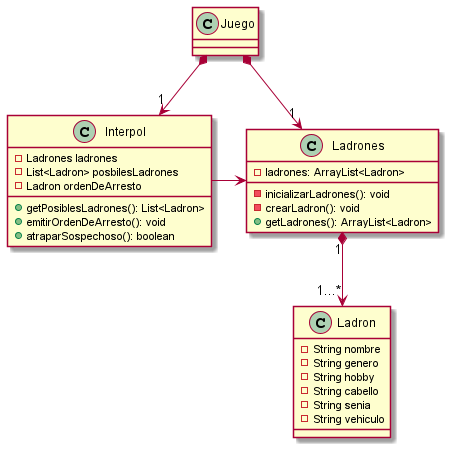
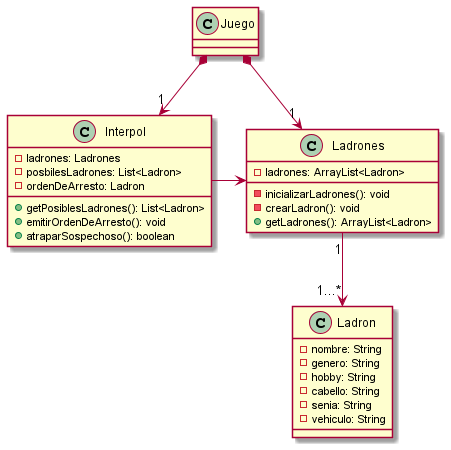
Se agregan diagramas de clase. Se modifica constructor de Tiempo. Se ajustan detalles en Ubicaciones

Changed region(s): [[0.6208, 0.6844, 0.9002, 0.9956], [0.0621, 0.3422, 0.4035, 0.4356], [0.745, 0.4978, 0.7761, 0.56]]

diff --git a/src/main/test/pruebasUnitarias/UbicacionTest.java b/src/main/test/pruebasUnitarias/UbicacionTest.java
@@ -2,6 +2,9 @@ package pruebasUnitarias;
 
 import carmenSandiego.modelo.*;
 import org.junit.jupiter.api.Test;
+
+import java.util.ArrayList;
+
 import static org.junit.jupiter.api.Assertions.*;
 import static org.mockito.Mockito.mock;
 import static org.mockito.Mockito.when;
@@ -10,14 +13,17 @@ public class UbicacionTest {
     Ubicacion ubicacionSalida = new Ubicacion(45.573279804398034, -73.49124739806629);
     Ubicacion ubicacionDestino = new Ubicacion(23.564780856080713, -101.16072897108585);
 
+    Ciudades ciudades = new Ciudades();
+
     //las primera latitud y longitud son de Montreal y las otras son de Mexico.
-    //las horas de viaje se redondean para abajo
+    //las horas de viaje se redondean para abajo/arriba dependiendo si el decimal es mayor/menor a la mitad
+    //las distancias se redondean para abajo
 
     @Test
     public void obtengoLaDistanciaEntreLasCoordenadas(){
         double distanciaObtenida = ubicacionSalida.obtenerDistancia(ubicacionDestino);
 
-        assertEquals(3466,distanciaObtenida,100);
+        assertEquals(3489,distanciaObtenida);
     }
 
     @Test
@@ -29,12 +35,38 @@ public class UbicacionTest {
 
         when(novatoMock.getVelocidad()).thenReturn(900);
         when(detectiveMock.getVelocidad()).thenReturn(1100);
-        when(investigadorMock.getVelocidad()).thenReturn(1200);
+        when(investigadorMock.getVelocidad()).thenReturn(1300);
         when(sargentoMock.getVelocidad()).thenReturn(1500);
 
-        assertEquals(3, ubicacionSalida.obtenerHorasDeViaje(ubicacionDestino, novatoMock.getVelocidad()));
+        assertEquals(4, ubicacionSalida.obtenerHorasDeViaje(ubicacionDestino, novatoMock.getVelocidad()));
         assertEquals(3, ubicacionSalida.obtenerHorasDeViaje(ubicacionDestino, detectiveMock.getVelocidad()));
-        assertEquals(2, ubicacionSalida.obtenerHorasDeViaje(ubicacionDestino, investigadorMock.getVelocidad()));
+        assertEquals(3, ubicacionSalida.obtenerHorasDeViaje(ubicacionDestino, investigadorMock.getVelocidad()));
         assertEquals(2, ubicacionSalida.obtenerHorasDeViaje(ubicacionDestino, sargentoMock.getVelocidad()));
+    }
+
+    @Test
+    public void seObtieneDistanciaEntreDistintasCiudades(){
+        ArrayList<Ciudad> listaCiudades = ciudades.getCiudades();
+        Ciudad ciudadBuenosAires = listaCiudades.get(0);
+        Ciudad ciudadRoma = listaCiudades.get(12);
+        Ciudad ciudadOslo = listaCiudades.get(5);
+
+        assertEquals(12244, ciudadBuenosAires.getUbicacion().obtenerDistancia(ciudadOslo.getUbicacion()));
+        assertEquals(11147, ciudadBuenosAires.getUbicacion().obtenerDistancia(ciudadRoma.getUbicacion()));
+        assertEquals(2007, ciudadOslo.getUbicacion().obtenerDistancia(ciudadRoma.getUbicacion()));
+        assertEquals(0, ciudadOslo.getUbicacion().obtenerDistancia(ciudadOslo.getUbicacion()));
+    }
+
+    @Test
+    public void seObtienenTiemposDeViajeEntreDistintasCiudadesParaJugadorNovato(){
+        ArrayList<Ciudad> listaCiudades = ciudades.getCiudades();
+        Ciudad ciudadBuenosAires = listaCiudades.get(0);
+        Ciudad ciudadRoma = listaCiudades.get(12);
+        Ciudad ciudadOslo = listaCiudades.get(5);
+
+        assertEquals(14, ciudadBuenosAires.getUbicacion().obtenerHorasDeViaje(ciudadOslo.getUbicacion(), 900));
+        assertEquals(12, ciudadBuenosAires.getUbicacion().obtenerHorasDeViaje(ciudadRoma.getUbicacion(), 900));
+        assertEquals(2, ciudadRoma.getUbicacion().obtenerHorasDeViaje(ciudadOslo.getUbicacion(), 900));
+        assertEquals(0, ciudadRoma.getUbicacion().obtenerHorasDeViaje(ciudadRoma.getUbicacion(), 900));
     }
 }

diff --git a/src/main/java/carmenSandiego/modelo/Ciudad.java b/src/main/java/carmenSandiego/modelo/Ciudad.java
@@ -86,24 +86,9 @@ public class Ciudad {
             edificio.setPistas(ciudadSiguiente);
         }
     }
-/*
-    public void viajarDesde(int velocidad, Ciudad ciudadSiguiente) {
-        ciudadSiguiente.viajarHasta(velocidad, latitud, longitud);
-    }
-
-    private void viajarHasta(int velocidad, Double latitud, Double longitud) {
-        Reloj reloj = Reloj.getInstance();
-        CalculadorTiempoViaje calculadorTiempoViaje = new CalculadorTiempoViaje(velocidad, latitud, longitud, this.latitud, this.longitud);
-        int horasDeViaje = calculadorTiempoViaje.obtenerHorasDeViaje();
-        reloj.agregarHoras(horasDeViaje);
-    }
-
- */
 
     public int viajarHasta(int velocidad, Ciudad ciudadDestino){
-        //CalculadorTiempoViaje calculadorTiempoViaje = new CalculadorTiempoViaje(velocidad, ciudadDestino.getUbicacion(), this.getUbicacion());
         return this.getUbicacion().obtenerHorasDeViaje(ciudadDestino.getUbicacion(), velocidad);
-        //return calculadorTiempoViaje.obtenerHorasDeViaje();
     }
 
     public void addEdificio(Edificio unEdificio){

diff --git a/src/main/test/entregas/CasosUsoEntrega2Test.java b/src/main/test/entregas/CasosUsoEntrega2Test.java
@@ -26,7 +26,7 @@ public class CasosUsoEntrega2Test {
     Ciudades ciudades = new Ciudades();
 
     //Setup jugador / tiempo
-    Tiempo reloj = new Tiempo();
+    Tiempo reloj = new Tiempo(7, 4, 0, 2021);
     Jugador jugador = new Jugador("Max", reloj);
     ObjetoRobado objetoRobado = new ObjetoRobado("Incan Gold Mask", ciudadMexico, "Importante");
 
@@ -62,7 +62,7 @@ public class CasosUsoEntrega2Test {
         jugador.viajar(ciudadMexico);
 
         assertEquals("Investigador", jugador.getRango().getNombreRango());
-        assertEquals(9, reloj.getHoraActual());
+        assertEquals(10, reloj.getHoraActual());
     }
 
     //caso uso 3: Cargar en la computadora los datos recopilados y buscar sospechosos.

diff --git a/src/main/java/carmenSandiego/modelo/Ubicacion.java b/src/main/java/carmenSandiego/modelo/Ubicacion.java
@@ -37,10 +37,10 @@ public class Ubicacion {
         double va2 = 2 * Math.atan2(Math.sqrt(va1), Math.sqrt(1 - va1));
         double distancia = radioTierra * va2;
 
-        return distancia;
+        return Math.floor(distancia);
     }
 
     public int obtenerHorasDeViaje(Ubicacion ubicacionDestino, int velocidad) {
-        return (int)(obtenerDistancia(ubicacionDestino) / velocidad);
+        return (int) Math.round((obtenerDistancia(ubicacionDestino) / velocidad));
     }
 }

diff --git a/src/main/java/carmenSandiego/modelo/Jugador.java b/src/main/java/carmenSandiego/modelo/Jugador.java
@@ -78,7 +78,6 @@ public class Jugador {
     }
 
     public void viajar(Ciudad ciudadSiguiente){
-        //ciudadActual.viajarDesde(rango.getVelocidad(), ciudadSiguiente); //habría que cambiarle el nombre
         int horasViaje = this.getCiudadActual().viajarHasta(rango.getVelocidad(), ciudadSiguiente);
         this.getReloj().addHoras(horasViaje);
         this.setCiudadActual(ciudadSiguiente);

diff --git a/src/main/java/carmenSandiego/modelo/EdificioAeropuerto.java b/src/main/java/carmenSandiego/modelo/EdificioAeropuerto.java
@@ -4,9 +4,9 @@ public class EdificioAeropuerto extends Edificio {
 
     public EdificioAeropuerto() {}
 
-    public void mostrarNombreDelEdificio() {
-        System.out.println("Aeropuerto");
-    }
+/*    public void mostrarNombreDelEdificio() {System.out.println("Aeropuerto");}
+
+ */
 
     public void setPistas(Ciudad ciudadSig) {
         ConPista pista = new PistaAeropuerto();

diff --git a/src/main/java/carmenSandiego/modelo/Tiempo.java b/src/main/java/carmenSandiego/modelo/Tiempo.java
@@ -5,9 +5,9 @@ import java.util.*;
 public class Tiempo {
     public Calendar calendario;
 
-    public Tiempo(){
+    public Tiempo(int hora, int dia, int mes, int anio){
         Calendar calendario = new GregorianCalendar();
-        calendario.set(2021, 00, 4, 7, 0, 0);
+        calendario.set(anio, mes, dia, hora, 0, 0);
 
         setCalendario(calendario);
     }

diff --git a/src/main/test/pruebasUnitarias/JugadorTest.java b/src/main/test/pruebasUnitarias/JugadorTest.java
@@ -23,7 +23,7 @@ public class JugadorTest {
             "asd", "asd", "asd", "asd", "asd", "ingles", "asd",
             "asd", "asd", "asd", "45.573279804398034", "-73.49124739806629")));
 
-    Tiempo reloj = new Tiempo();
+    Tiempo reloj = new Tiempo(7, 4, 0, 2021);
     Jugador jugador = new Jugador("Alex", reloj);
     Ciudad ciudadMock = mock(Ciudad.class);
 

diff --git a/src/main/java/carmenSandiego/modelo/EdificioPuerto.java b/src/main/java/carmenSandiego/modelo/EdificioPuerto.java
@@ -3,9 +3,11 @@ package carmenSandiego.modelo;
 public class EdificioPuerto extends Edificio{
 
     public EdificioPuerto(){}
-    public void mostrarNombreDelEdificio(){
+/*    public void mostrarNombreDelEdificio(){
         System.out.println("Puerto");
     }
+
+ */
 
     public void setPistas(Ciudad ciudadSig) {
         ConPista pista = new PistaPuerto();

diff --git a/src/main/java/carmenSandiego/modelo/EdificioBiblioteca.java b/src/main/java/carmenSandiego/modelo/EdificioBiblioteca.java
@@ -4,9 +4,11 @@ public class EdificioBiblioteca extends Edificio {
 
     public EdificioBiblioteca(){}
 
-    public void mostrarNombreDelEdificio(){
+/*    public void mostrarNombreDelEdificio(){
         System.out.println("Biblioteca");
     }
+
+ */
 
     public void setPistas(Ciudad ciudadSig) {
         ConPista pista = new PistaBiblioteca();

diff --git a/src/main/test/entregas/CasosUsoEntrega1Test.java b/src/main/test/entregas/CasosUsoEntrega1Test.java
@@ -24,7 +24,7 @@ public class CasosUsoEntrega1Test<ciudadMexico> {
     Edificio biblioteca = new EdificioBiblioteca();
     Edificio puerto = new EdificioPuerto();
 
-    Tiempo reloj = new Tiempo();
+    Tiempo reloj = new Tiempo(7, 4, 0, 2021);
     Jugador jugador = new Jugador("Max", reloj);
 //    Reloj reloj = Reloj.getInstance();
 

diff --git a/src/main/java/carmenSandiego/modelo/EdificioBanco.java b/src/main/java/carmenSandiego/modelo/EdificioBanco.java
@@ -4,9 +4,11 @@ public class EdificioBanco extends Edificio {
 
     public EdificioBanco(){}
 
-    public void mostrarNombreDelEdificio(){
+/*    public void mostrarNombreDelEdificio(){
         System.out.println("Banco");
     }
+
+ */
 
     public void setPistas(Ciudad ciudadSig) {
         ConPista pista = new PistaBanco();
